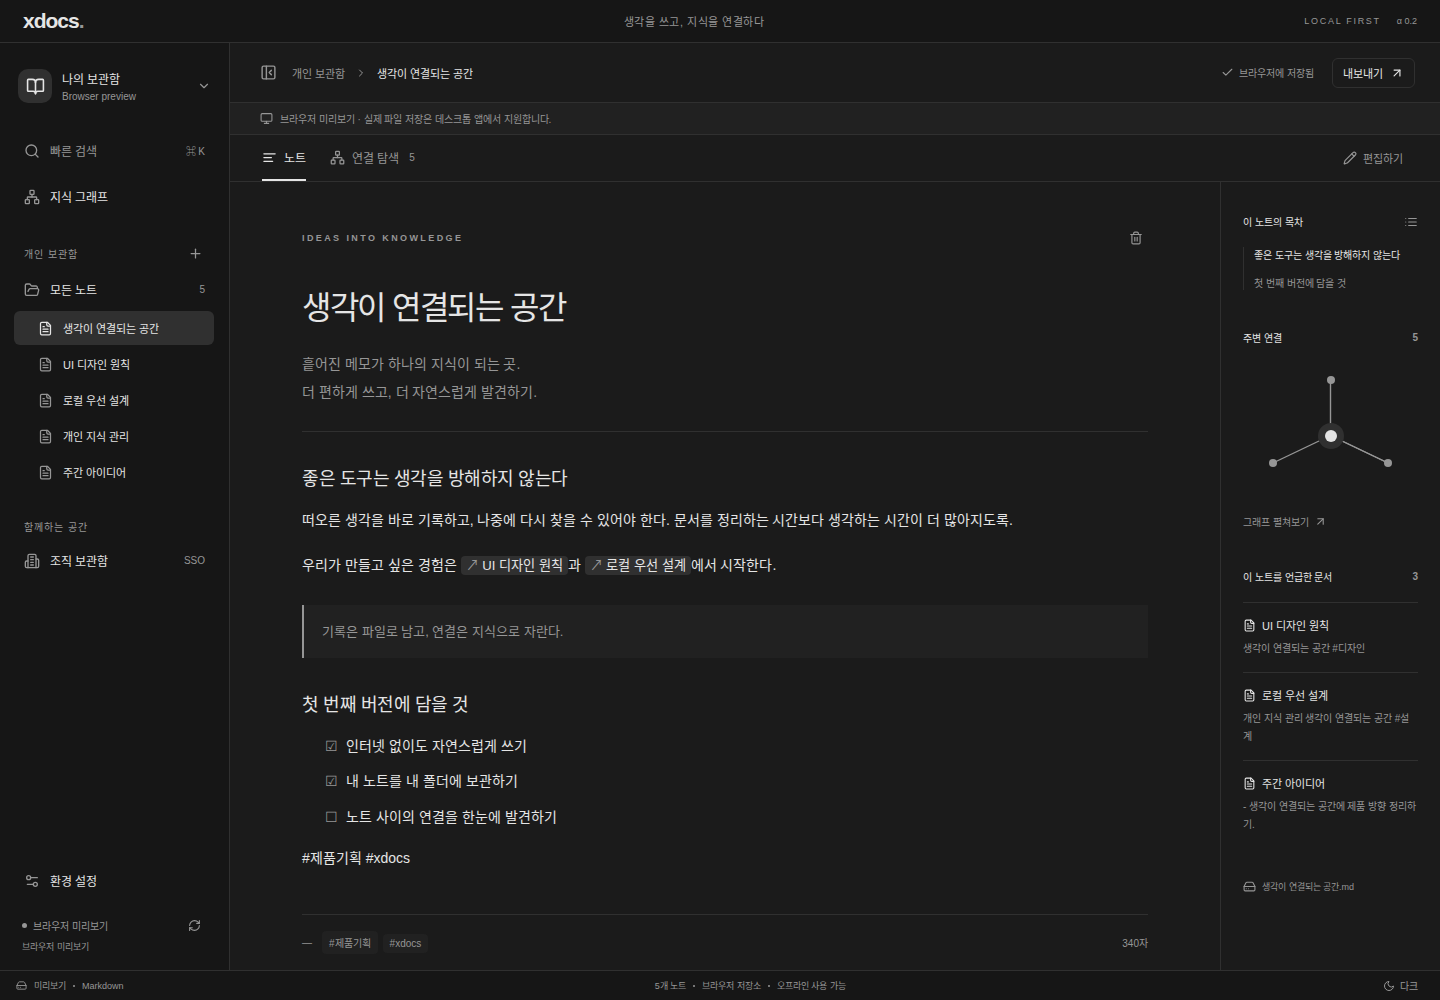
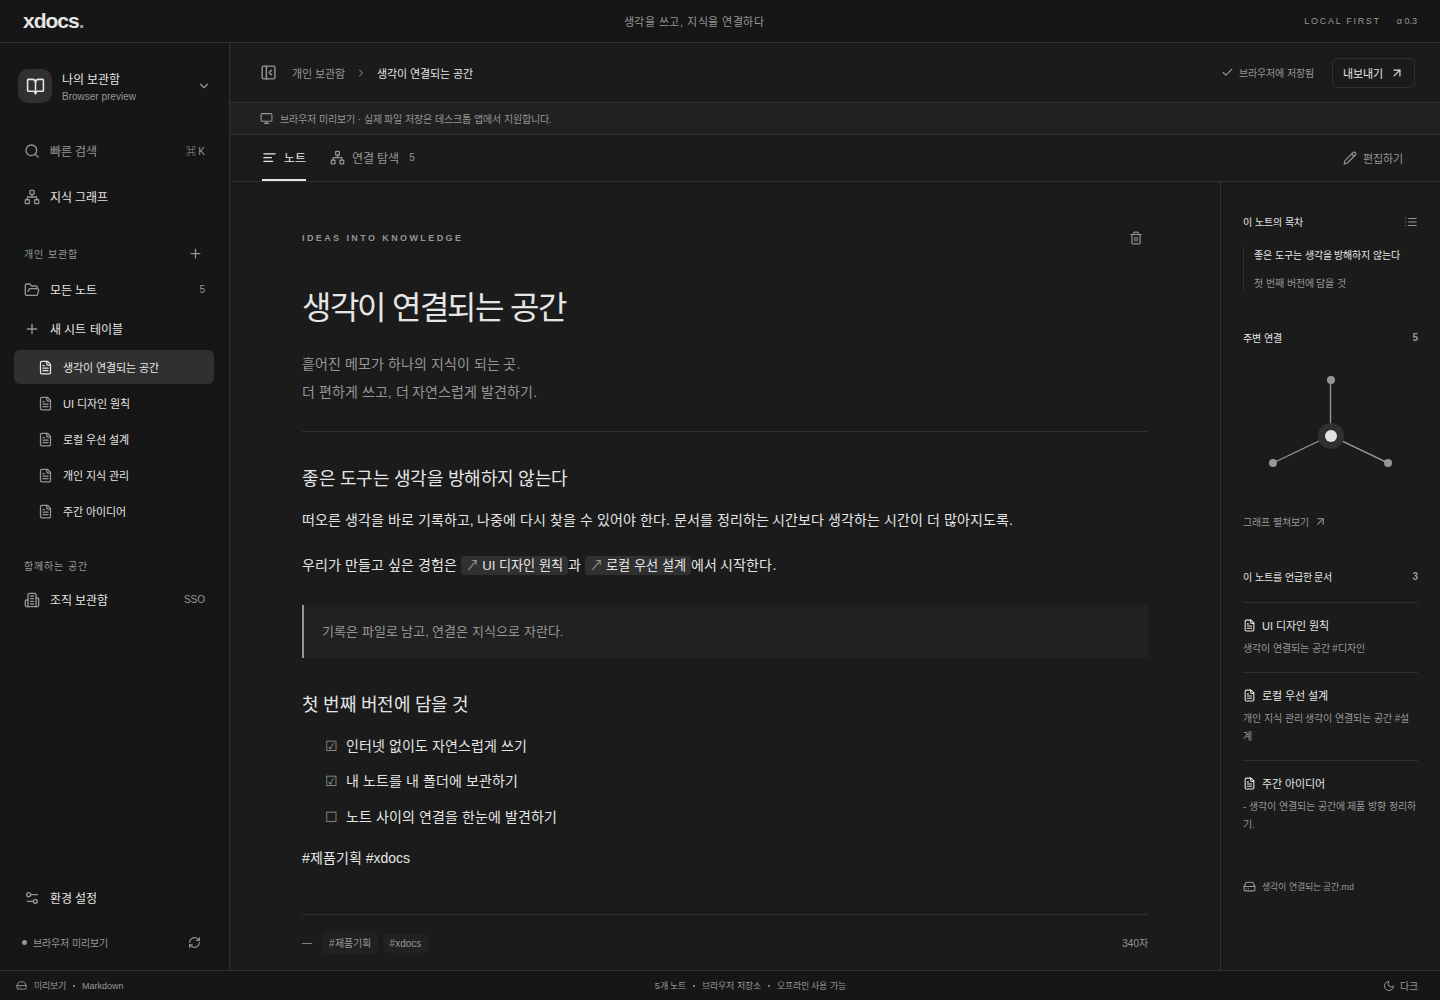
fix: remove duplicate preview label and refresh theme screenshots

Changed region(s): [[0.0, 0.31, 0.1562, 0.527], [0.0, 0.868, 0.0625, 0.961], [0.0, 0.558, 0.0625, 0.62]]

diff --git a/src/App.tsx b/src/App.tsx
@@ -737,9 +737,11 @@ export default function App() {
               <RefreshCw size={13} />
             </button>
           </div>
-          <div className="vault-path" title={workspace?.root}>
-            {workspace?.root || "내 파일에서 시작하기"}
-          </div>
+          {isDesktop && (
+            <div className="vault-path" title={workspace?.root}>
+              {workspace?.root || "내 파일에서 시작하기"}
+            </div>
+          )}
         </div>
       </aside>
       <main className="main">
